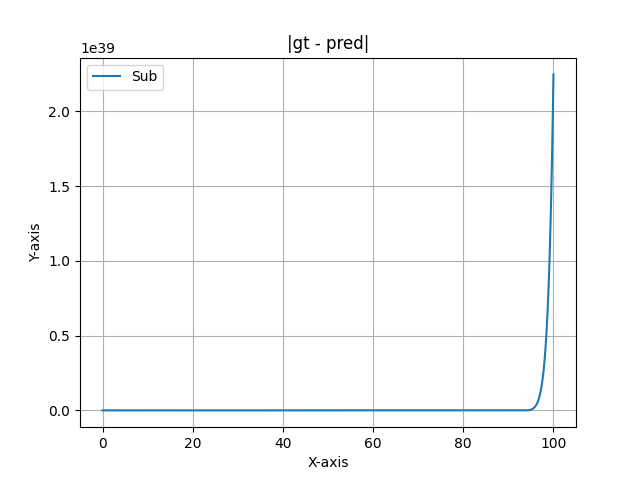
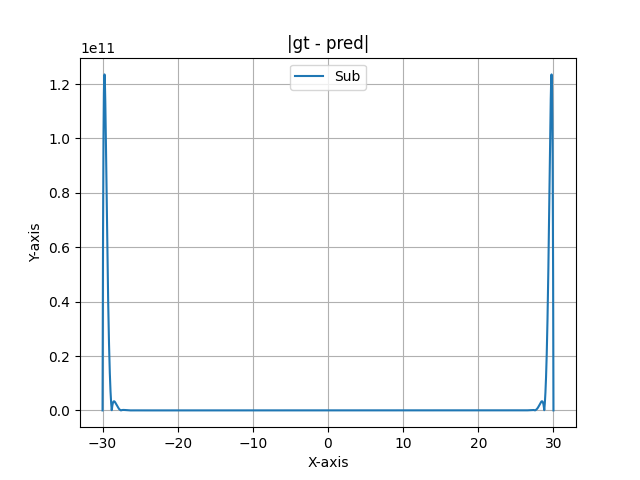
improve divided diff

diff --git a/lib/interpolation.py b/lib/interpolation.py
@@ -1,7 +1,7 @@
 import numpy as np
 from typing import Callable
 from icecream import ic
-from lib.eval import gaussian_elimination, eval
+from lib.eval import gaussian_elimination, EvalTool
 from scipy.interpolate import KroghInterpolator
 
 class InterpolationToolkit():
@@ -30,7 +30,7 @@ class InterpolationToolkit():
         _L.__name__ = 'lagrange'
         return _L
 
-    def vandermonde_true(self)->Callable[[float],float]:
+    def vandermonde_gt(self)->Callable[[float],float]:
         A = np.vander(self.x, increasing=True)
         coef = np.linalg.solve(A,self.y)
         def V(x):
@@ -39,7 +39,7 @@ class InterpolationToolkit():
     
     def vandermonde(self)->Callable[[float],float]:
         A = np.array([[xi**i for i in range(self.num_points)] for xi in self.x])
-        coef = eval.gaussian_elimination(A,self.y)
+        coef = EvalTool.gaussian_elimination(A,self.y)
         def V(x):
             return np.sum(np.array([coef[i]*x**i for i in range(len(coef))]))
         _V= np.vectorize(V)
@@ -47,12 +47,12 @@ class InterpolationToolkit():
         return _V
     
     def newton(self)->Callable[[float],float]:
-        div_diff_table = eval.divided_diff_TABLE(self.x,self.y)
+        div_diff_table = EvalTool.mean_diff_table(self.x,self.y)
         def N(x):
             n = len(self.x)-1
             res = self.y[0]
             for i in range(n):
-                correction = div_diff_table[i+1,i+1]*np.prod(np.array([x-self.x[j] for j in range(i)]))
+                correction = div_diff_table[i+1,i+1]*np.prod(np.array([x-self.x[j] for j in range(i+1)]))
                 res += correction
             return res
         _N = np.vectorize(N)
@@ -60,11 +60,51 @@ class InterpolationToolkit():
         return _N
     
     def newton_gt(self)->Callable[[float],float]:
-        # 用库函数写一个newton插值函数
         _N = KroghInterpolator(self.x,self.y)
         _N.__name__ = 'newton_gt'
         return _N
-
-        
-
     
+    def DDN(self)->Callable[[float],float]:
+        div_diff_table = EvalTool.div_diff_table(self.x,self.y)
+        def D(x):
+            n = len(self.x)-1
+            x0 = self.x[0]
+            # h = (self.end - self.start) / self.num_points
+            h = self.x[1] - self.x[0]
+            t = (x - x0) / h
+            res = self.y[0]
+            for i in range(n):
+                correction = div_diff_table[i+1,i+1]*np.prod(np.array([(t-j)/(j+1) for j in range(i+1)]))
+                res += correction
+            return res
+        _D = np.vectorize(D)
+        _D.__name__ = 'Divided Difference Newton'
+        return _D
+    
+    @staticmethod
+    def DDN_debug(x: np.ndarray, y: np.ndarray,end,start,num_points)->Callable[[float],float]:
+        div_diff_table = EvalTool.div_diff_table(x,y)
+        def D(u):
+            n = len(x)-1
+            x0 = x[0]
+            h = (end - start) / num_points
+            assert h - (x[1] - x[0]) < 1e-6
+            t = (u - x0) / h
+            res = y[0]
+            for i in range(n):
+                correction = div_diff_table[i+1,i+1]*np.prod(np.array([(t-j)/(j+1) for j in range(i+1)]))
+                res += correction
+            return res
+        _D = np.vectorize(D)
+        _D.__name__ = 'Divided Difference Newton'
+        return _D
+    
+    def Piecewise_Linear(self)->Callable[[float],float]:
+        eval.find_nearest(self.x,0)
+        def PL(x):
+            for i in range(len(self.x)-1):
+                if x >= self.x[i] and x <= self.x[i+1]:
+                    return (self.y[i+1]-self.y[i])/(self.x[i+1]-self.x[i])*(x-self.x[i])+self.y[i]
+        _PL = np.vectorize(PL)
+        _PL.__name__ = 'Piecewise Linear'
+        return _PL

diff --git a/lib/eval.py b/lib/eval.py
@@ -31,26 +31,48 @@ def gaussian_elimination(A, b):
     
     return x
 
-class eval():
+class EvalTool():
     @staticmethod   
     def gaussian_elimination(A,b):
         return gaussian_elimination(A,b)
     
     @staticmethod
-    def divided_diff_TABLE(x: np.ndarray, 
-                           y: np.ndarray) -> np.ndarray:
+    def mean_diff_table(x: np.ndarray, 
+                        y: np.ndarray
+        ) -> np.ndarray:
         n = len(x)-1
         table = np.zeros((n+1,n+1))
         table[:,0] = y
         for j in range(1,n+1):
             for i in range(j,n+1):
-                table[i,j] = (table[i,j-1] - table[i-1,j-1])/(x[i]-x[i-1])
+                table[i,j] = (table[i,j-1] - table[i-1,j-1])/(x[i]-x[i-j])
         return table
+    
+    @staticmethod
+    def div_diff_table(x: np.ndarray, 
+                       y: np.ndarray
+        ) -> np.ndarray:
+        n = len(x)-1
+        table = np.zeros((n+1,n+1))
+        table[:,0] = y
+        for j in range(1,n+1):
+            for i in range(j,n+1):
+                table[i,j] = table[i,j-1] - table[i-1,j-1]
+        return table
+    
+    @staticmethod
+    def find_nearest(array: np.ndarray, 
+                     value: floating
+        ) -> Tuple[int, int]:
+        idx1 = (np.abs(array - value)).argmin()
+        array[idx1] = np.inf
+        idx2 = (np.abs(array - value)).argmin()
+        return idx1, idx2
 
 if __name__ == "__main__":
     x = np.linspace(0,5,5)
     y = np.sin(x)
-    table = eval.divided_diff_TABLE(x,y)
+    table = EvalTool.mean_diff_table(x,y)
     x_table = np.hstack([x.reshape(-1,1),table])
     ic(osp.join(os.getcwd(),"x_table.txt"))
     with open("x_table.txt","w") as f:

diff --git a/lib/plot.py b/lib/plot.py
@@ -14,7 +14,17 @@ def plot(func_fitting:Callable[[float],float],
      y_fitting = func_fitting(x)
      y_func_target = func_target(x)
      y_sub = np.abs(y_fitting - y_func_target)
-     plt.plot(x,y_sub,label='Sub')
+     # 计算num_experimental_points个点的平均误差
+     a = int(0.4*num_experimental_points)
+     b = int(0.6*num_experimental_points)
+     ic()
+     ic(x[a],x[b])
+     error_seg = np.mean(y_sub[a:b])
+     error_totl = np.mean(y_sub)
+     ic(f'{error_seg:.2e}')
+     ic(f'{error_totl:.2e}')
+
+     plt.plot(x,y_sub,label='ERROR')
      plt.legend()
      plt.grid(True)
      plt.xlabel('X-axis')

diff --git a/script/debug01_DDN.py b/script/debug01_DDN.py
@@ -1,0 +1,25 @@
+import SCRIPT_CONFIG
+import numpy as np
+from typing import Callable
+from icecream import ic
+
+from lib.interpolation import InterpolationToolkit
+from lib.eval import EvalTool
+
+if __name__ == '__main__':
+    def f(x,c,d,e,f):
+        return c*np.sin(d*x) + e*np.cos(f*x)
+    tar_func = lambda x: f(x,0,0,1,1)
+    start = 0
+    end = 0.5
+    _D = InterpolationToolkit.DDN_debug(
+        x=np.linspace(start,end,6),
+        y=np.array([tar_func(x) for x in np.linspace(start,end,6)]),
+        start=start,
+        end=end,
+        num_points=6
+    )
+    _D(float(0.048))
+    a = 2
+
+

diff --git a/main.py b/main.py
@@ -4,14 +4,14 @@ import numpy as np
 def f(x,c,d,e,f):
     return c*np.sin(d*x) + e*np.cos(f*x)
 tar_func = lambda x: f(x,3,1,4,2)
-start = 0
-end = 100
+start = -30
+end = 30
 
 if __name__ == '__main__':
 
     interpolator = lib.InterpolationToolkit(
         tar_func = tar_func,
-        num_points = 30,
+        num_points = 50,
         start = start,
         end = end
     )

diff --git a/test.py b/test.py
@@ -26,11 +26,5 @@ def gaussian_elimination(A, b):
     return x
 
 if __name__ == '__main__':
-    A = np.array([[2.34, 1, -1], [-3, -1, 2], [-2, 1, 2]])
-    b = np.array([8, -11, -3])
-    ic(np.linalg.solve(A, b))
-    x = gaussian_elimination(A, b)
-    ic(x)
-    exit()
-    ic(np.linalg.solve(A, b))
-    ic(np.allclose(np.dot(A, x), b))
+    for j in range(2):
+        print(j)

diff --git a/script/SCRIPT_CONFIG.py b/script/SCRIPT_CONFIG.py
@@ -1,0 +1,6 @@
+import os
+import os.path as osp
+import sys
+PATH_PROJECT = osp.join(osp.dirname(osp.abspath(__file__)),'..')    
+PATH_LIB = osp.join(PATH_PROJECT,'lib')
+sys.path.append(PATH_PROJECT)   

diff --git a/lib/__init__.py b/lib/__init__.py
@@ -1,3 +1,2 @@
 from .interpolation import InterpolationToolkit
 from .plot import plot  
-from .eval import gaussian_elimination
